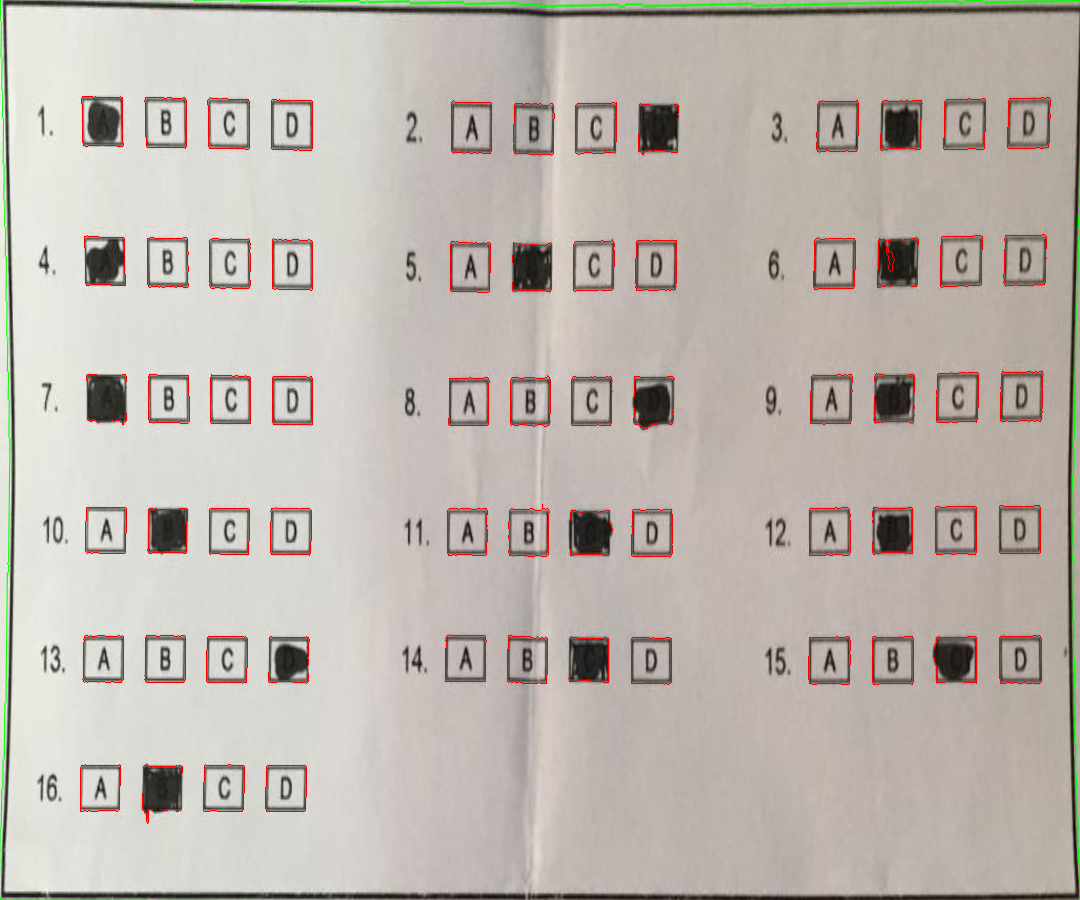
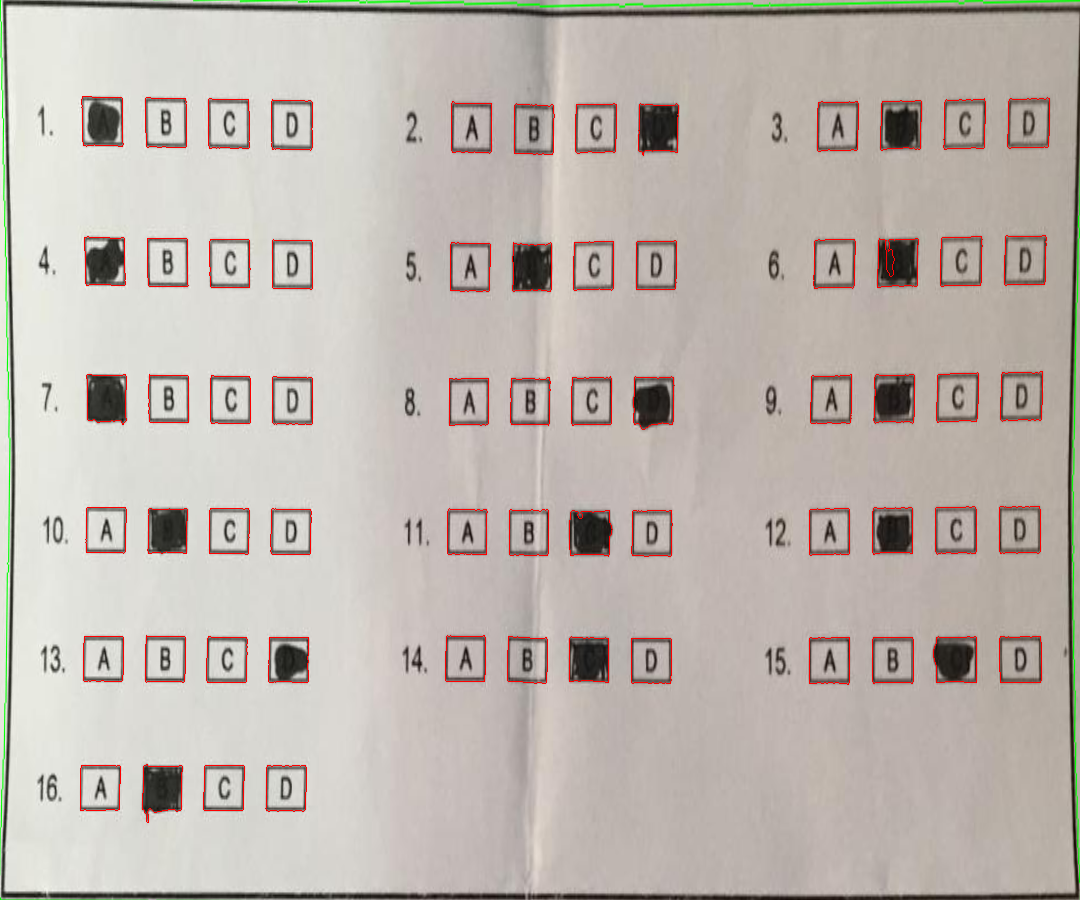
参数调整已经基本掌握回家修改补全机制,内容复杂

diff --git a/answer-sheet-scan/utils.py b/answer-sheet-scan/utils.py
@@ -177,6 +177,11 @@ def get_ans(ans_img, rows):
                 percent_list.append({'col': k + 1, 'row': i + 1, 'percent': percent, 'choice': settings.CHOICES[j]})
 
             #percent_list.sort(key=lambda x: x['percent'])
+            temp_percent_list = percent_list[:];
+            temp_percent_list.sort(key=lambda x: x['percent'])
+            for i,x in enumerate(temp_percent_list[1:]):
+                if temp_percent_list[i]['percent'] - x['percent'] > 0.2 :
+                    settings.WHITE_RATIO_PER_CHOICE = x['percent'] + 0.01
             choice_pos_n_ans = (percent_list[0]['row'], percent_list[0]['col'], percent_list[0]['choice'])
             choice_pos = (percent_list[0]['row'], percent_list[0]['col'])
             ans_str = ""
@@ -232,15 +237,49 @@ def get_choice_row_count():
 def sort_by_row_hs(cnts_pos):
     choice_row_count = get_choice_row_count()
     count = 0
-    rows = []
-    threshold = get_min_row_interval(cnts_pos)
-    for i in range(choice_row_count):
+    threshold = get_min_row_interval(cnts_pos);
+    
+    min_left = min(cnts_pos, key=lambda x: x[0])[0]
+    max_right = max(cnts_pos, key=lambda x: x[0])[0]
+    min_top = min(cnts_pos, key=lambda x: x[1])[1]
+    max_top = max(cnts_pos, key=lambda x: x[1])[1]
+    ave_width = 0
+    ave_height = 0
+    for pos in cnts_pos:
+        ave_height+=pos[2]
+        ave_height+=pos[3]
+    ave_height = ave_height/count(cnts_pos)
+    ave_width = ave_width/count(cnts_pos)
+    
+    #cur_row = 1;
+    
+    my_rows = []
+    row = []
+    
+    
+    for i,pos in enumerate(cnts_pos):            
+        while abs(cnts_pos[i][0]-pos[0]) < 5:
+            row.append(cnts_pos[i])
+        if abs(cnts_pos[i][0]-pos[0]) >= 5:
+            row.append(cnts_pos[i])
+            #检测一行数据和与预计每行数据相等，直接读取下一行,不进行校验
+            if count(row) == choice_row_count:
+                my_rows.append(row)
+            #不一致也可能是最后一行不足一行，应该做减法判断
+            elif set.CHOICE_CNT_COUNT- count(my_rows)*choice_row_count == count(row):
+                my_rows.append(row)
+                      
+        
+        
+    #for i,pos in enumerate(cnts_pos[1:]):
+    #    if (pos[i] - cnts_pos[])  
+        
+    for i in (choice_row_count):
         cols = cnts_pos[i * settings.CHOICE_COL_COUNT - count:(i + 1) * settings.CHOICE_COL_COUNT - count]
-        # threshold = _std_plus_mean(cols)
         temp_row = [cols[0]]
         for j, col in enumerate(cols[1:]):
             temp_row.append(col)
-        count += settings.CHOICE_COL_COUNT - len(temp_row)
+        #count += settings.CHOICE_COL_COUNT - len(temp_row)
         temp_row.sort(key=lambda x: x[0])
         rows.append(temp_row)
 

diff --git a/answer-sheet-scan/sheet.py b/answer-sheet-scan/sheet.py
@@ -102,7 +102,7 @@ def get_answer_from_sheet(base_img):
     #ret, choice_img = cv2.threshold(processed_img,0,255,cv2.THRESH_BINARY_INV+cv2.THRESH_OTSU)#新方法
     #choice_img = cv2.dilate(processed_img, settings.CHOICE_IMG_KERNEL, iterations=settings.CHOICE_IMG_DILATE_ITERATIONS)
     choice_img = cv2.erode(processed_img, settings.CHOICE_IMG_KERNEL, iterations=settings.CHOICE_IMG_ERODE_ITERATIONS)
-    choice_img = cv2.adaptiveThreshold(processed_img,255,cv2.ADAPTIVE_THRESH_MEAN_C,cv2.THRESH_BINARY_INV,23,2)
+    choice_img = cv2.adaptiveThreshold(processed_img,255,cv2.ADAPTIVE_THRESH_MEAN_C,cv2.THRESH_BINARY_INV,11,2)
     #choice_img = cv2.morphologyEx(choice_img,cv2.MORPH_GRADIENT,settings.ANS_IMG_KERNEL)
    
     cv2.imwrite(obj_dir+"/"+'choice_area.png', choice_img)
@@ -110,7 +110,10 @@ def get_answer_from_sheet(base_img):
     
     # 查找选项框以及前面题号的轮廓
     cnts, h = cv2.findContours(choice_img, cv2.RETR_EXTERNAL, cv2.CHAIN_APPROX_SIMPLE)
-
+    
+    #cnts = []
+    #for c in cnt1s:
+    #    cnts.append(cv2.approxPolyDP(cnt, cv2.arcLength(cnt, True) * 0.1, True))
     question_cnts = []
     cnts_areas = []
     for i,c in enumerate(cnts):
@@ -124,7 +127,8 @@ def get_answer_from_sheet(base_img):
         if CHOICE_MIN_AREA < cnts_areas[i]< CHOICE_MAX_AREA \
             and ((w/h<=1 and h/w <2) or (w/h>1 and w/h <2)):
             question_cnts.append(c)
-            print "%d %d" %(w,h)
+            #print c;
+            #print "%d %d" %(w,h)
             
         
     cv2.drawContours(wait_draw, question_cnts, -1, (0, 0, 255), 1)
@@ -136,9 +140,10 @@ def get_answer_from_sheet(base_img):
     if len(question_cnts) != settings.CHOICE_CNT_COUNT:
         print "数目错误 %d %d" %(len(question_cnts),settings.CHOICE_CNT_COUNT)
         exit()    
-
-    # 对轮廓之上而下的排序
+    #对轮廓之上而下的排序
+    question_cnts, cnts_pos = contours.sort_contours(question_cnts, method="left-to-right")
     question_cnts, cnts_pos = contours.sort_contours(question_cnts, method="top-to-bottom")
+   
     rows = sort_by_row_hs(list(cnts_pos))
     get_ans(ans_img, rows)
 

diff --git a/answer-sheet-scan/test_sheet.py b/answer-sheet-scan/test_sheet.py
@@ -5,7 +5,7 @@ import time
 
 start = time.clock()
 
-image_name = "0026.jpg"; ##0006 0007 
+image_name = "0013.jpg"; ##0006 0007 
 
 get_answer_from_sheet("img/new/"+image_name);
 end = time.clock()
